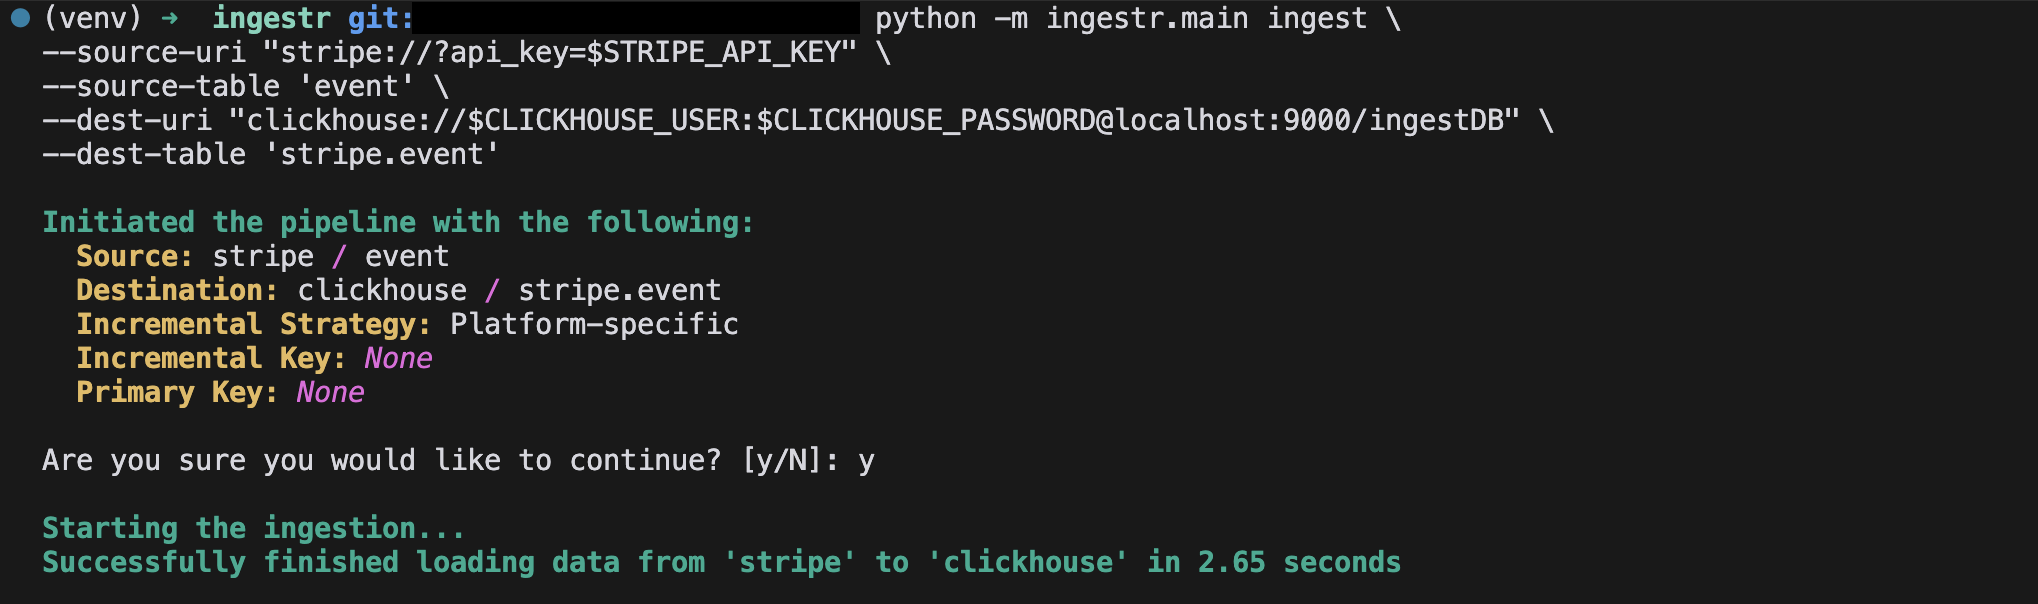
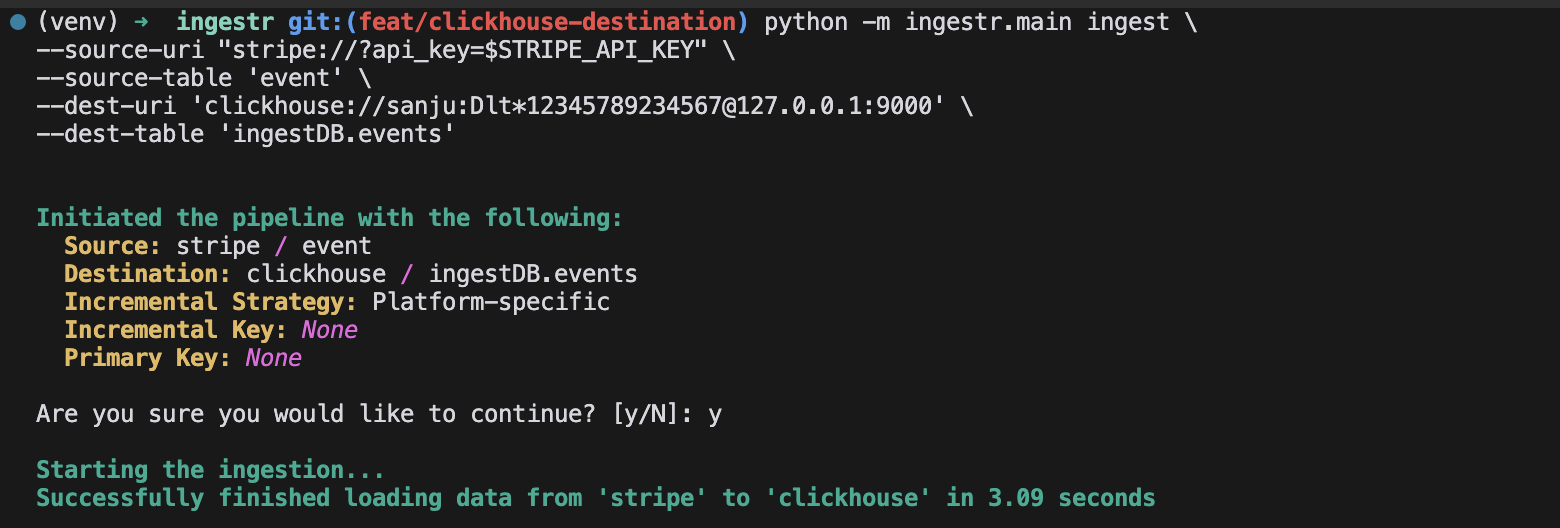
update doc

diff --git a/docs/supported-sources/clickhouse.md b/docs/supported-sources/clickhouse.md
@@ -7,14 +7,13 @@ Ingestr supports ClickHouse as a destination.
 The URI format for ClickHouse as a destination is as follows:
 
 ```plaintext
-clickhouse://<username>:<password>@<host>:<port>/<database>
+clickhouse://<username>:<password>@<host>:<port>
 ```
 ## URI parameters:
 - `username` (required): The username is required to authenticate with the ClickHouse server.
 - `password` (required): The password is required to authenticate the provided username.
 - `host` (required): The hostname or IP address of the ClickHouse server where the database is hosted.
 - `port` (required): The TCP port number used by the ClickHouse server.
-- `database` (required): The name of the ClickHouse database to connect to.
 
 
 ClickHouse requires a `username`, `password`, `host`, `port`, and `database` to connect to the ClickHouse server. For more information, read [here](https://dlthub.com/docs/dlt-ecosystem/destinations/clickhouse#2-setup-clickhouse-database). Once you've completed the guide, you should have all the above-mentioned credentials.
@@ -23,9 +22,23 @@ ClickHouse requires a `username`, `password`, `host`, `port`, and `database` to 
 ingestr ingest \
     --source-uri "stripe://?api_key=key123" \
     --source-table 'event' \
-    --dest-uri "clickhouse://user_123:pass123@localhost:9000/DB_123" \
+    --dest-uri "clickhouse://user_123:pass123@localhost:9000" \
     --dest-table 'stripe.event'
 ```
+
+## Important Note for Local Development
+
+Clickhouse's HTTP interface defaults to port 8123. If you're running Clickhouse in Docker, you must map the container's port 8123 to a port on your host (e.g., 8888) to access the HTTP interface.
+
+In such cases, Ingestr requires the `http_port` query parameter in your connection string to specify the host port mapped to 8123.
+
+For example, if you've mapped port 8123 to 8888 on your host, your connection string should be:
+
+```
+clickhouse://user:pass@localhost:9000?http_port=8888
+```
+
+This parameter is only needed when Clickhouse is running in Docker and its HTTP port has been mapped to a different host port. By default, Ingestr will attempt to connect to Clickhouse's HTTP interface on port 8123.
 
 This is a sample command that will copy the data from the Stripe source into Athena.
 
